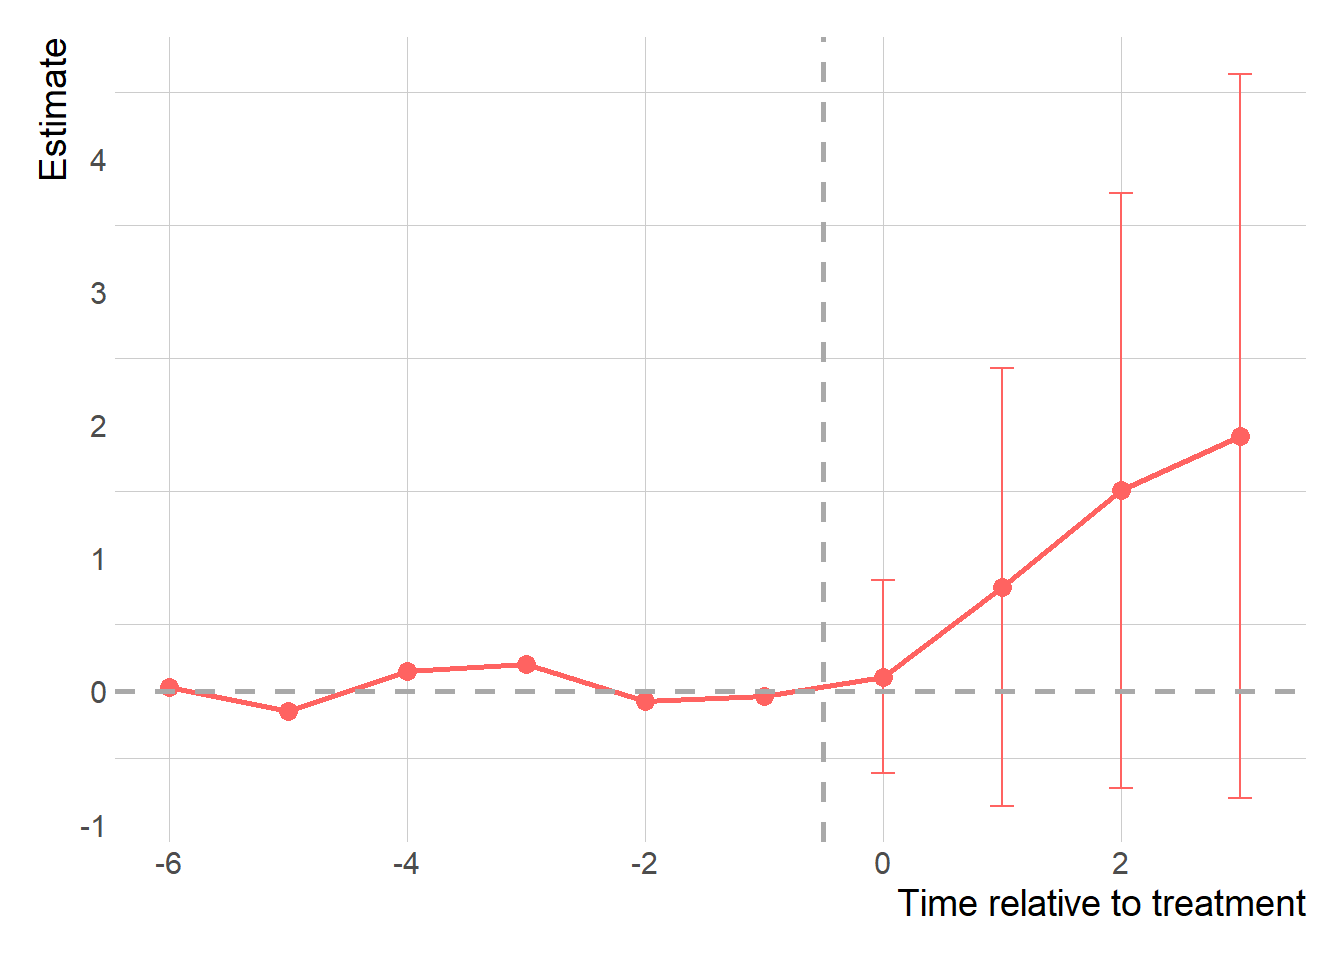
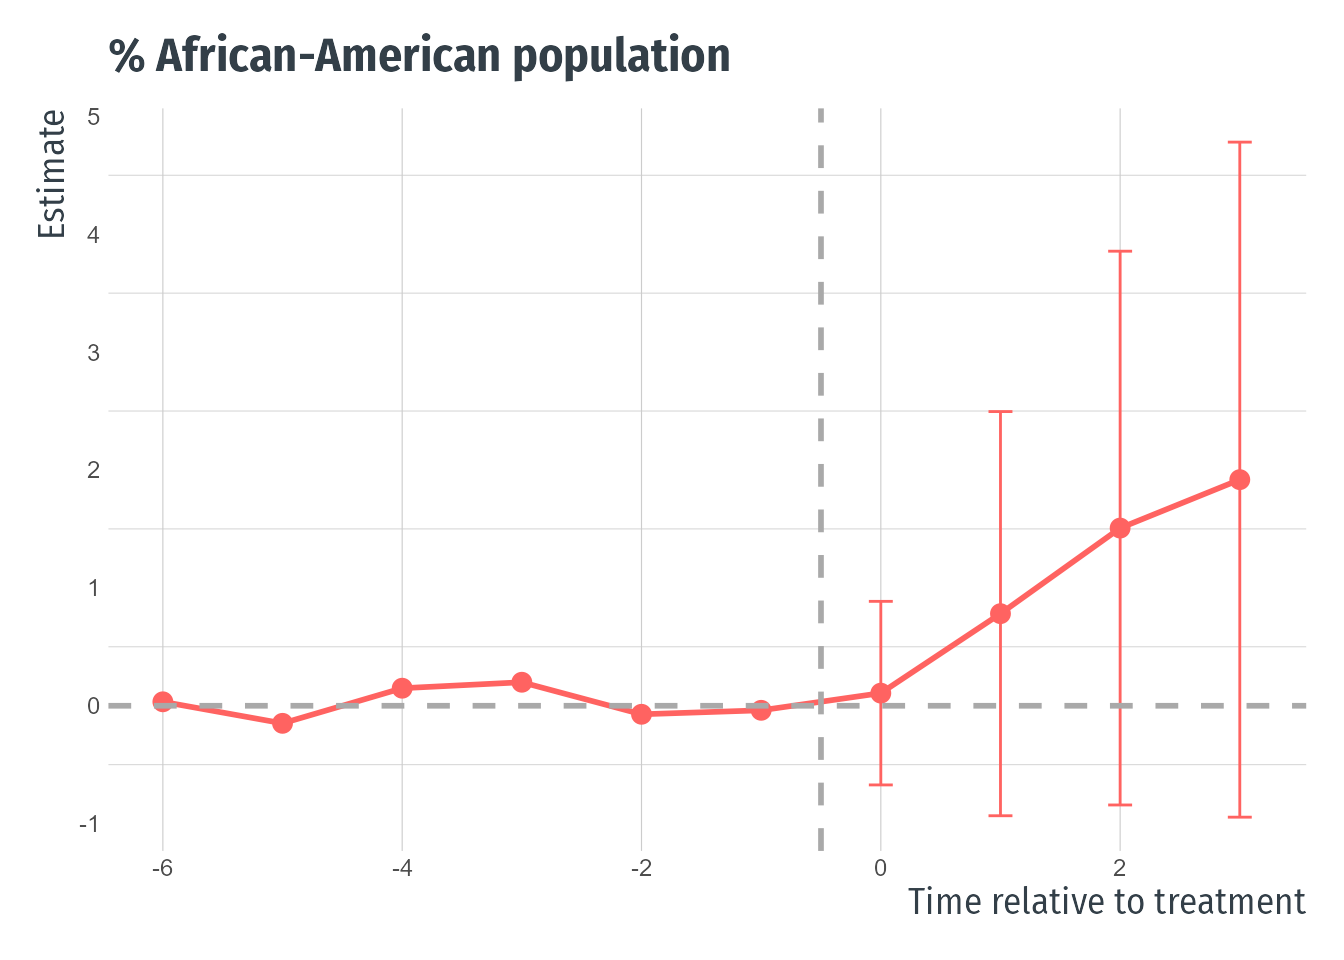
update

diff --git a/content/presentations/AttendanceZones/AEFP_20230324/mbennett_az.html b/content/presentations/AttendanceZones/AEFP_20230324/mbennett_az.html
@@ -46,10 +46,12 @@ class: inverse, center, middle
 
 --
 &lt;br&gt;
+&lt;br&gt;
 
 - Neighborhoods have important effects on **.darkorange[long-term outcomes]** .small[(Chetty et al. 2020)]
 
 --
+&lt;br&gt;
 &lt;br&gt;
 
 - Racial and socioeconomic disparities in the school system also have long-term effects on students .small[(Reardon, 2016; Billings et al., 2014)]
@@ -73,10 +75,12 @@ Changes in attendance zones]
   
 --
 &lt;br&gt;
+&lt;br&gt;
 
 - **.darkorange[New high schools]** in Texas that changed AZ
 
 --
+&lt;br&gt;
 &lt;br&gt;
 
 - **.darkorange[Outcomes of interest]**:
@@ -132,37 +136,43 @@ Changes in attendance zones]
 - **.darkorange[Common Core Data (CCD) [2005-2019]]**: Administrative data from NCES, including demographic and socioeconomic characteristics of schools.
 
 --
+&lt;br&gt;
 
 - **.darkorange[Texas Educacion Agency (TEA) data [2005-2019]]**: Performance data for schools over time.
 
 --
+&lt;br&gt;
 
 - **.darkorange[Attendance zones maps [2009-2017]]**: Geographic data for school boundaries over time from SABS, SABINS, and Maponics.
 
 --
+&lt;br&gt;
 
 - **.darkorange[Census and American Community Survey (ACS) data [2010-2019]]**: Demographic information at the census tract level
 
 --
+&lt;br&gt;
 
 - **.darkorange[Housing Prices data [2005-2019]]**: Information about housing prices over time from CoreLogic and Zillow *(coming soon)*.
 
 ---
 # Identification Strategy: An Augmented Synthetic Control Method
 
-- Use a **.darkorange[weigthed average}** of similar districts/schools/AZ/neighborhoods to create a comparison group for affected areas.
+- Use a **.darkorange[weighted average]** of similar districts/schools/AZ/neighborhoods to create a comparison group for affected areas.
+
+--
 
 - Under **.darkorange[Augmented Synthetic Control Method]** (ASCM) (Ben-Michael et al., 2020) there is a correction for poor fit:
 
 `$$\hat{Y}^{aug}_{1T}(0) = \sum_{W_i=0}\gamma_iY_{iT}+\color{#820a94}{(\hat{m}_{iT}(\mathbf{X_i})-\sum_{W_i=0}\gamma_i\hat{m}_{iT}(\mathbf{X_i}))}$$`
-
-  - `\(m_{iT}\)`: Estimator for `\(Y_{iT}(0)\)`
-  - Extrapolation for ``bias correction''.
-  - If ridge regression is used `\(\rightarrow\)` penalization for extrapolation
+.small[
+- `\(m_{iT}\)`: Estimator for `\(Y_{iT}(0)\)`
+- Extrapolation for "bias correction".
+- If ridge regression is used `\(\rightarrow\)` penalization for extrapolation.]
 
 --
 
-- Proposal of sensitivity analysis to hidden bias:
+- Proposal of **.darkorange[sensitivity analysis to hidden bias]**:
 
   - *How much should an unobserved confounder affect the probability of treatment (i.e. new school opening there vs in a control area) to explain away the results we find?*
 
@@ -174,17 +184,21 @@ Changes in attendance zones]
 - ASCM for different characteristics, adjusting for other baseline covariates (e.g. number of schools, enrollment, %FRPL, % race/ethnicity)
 
 .center[
-![:scale 50%](https://raw.githubusercontent.com/maibennett/presentations/main/content/presentations/AttendanceZones/AEFP_20230324/images/map0_districts.png)]
+![:scale 40%](https://raw.githubusercontent.com/maibennett/presentations/main/content/presentations/AttendanceZones/AEFP_20230324/images/map0_districts.png)]
 
 ---
 # Districts with new schools increase gap in Math
 
-[INSERT PLOT]
+&lt;br&gt;
+.center[
+![:scale 85%](https://raw.githubusercontent.com/maibennett/presentations/main/content/presentations/AttendanceZones/AEFP_20230324/images/districts_gap_math.png)]
 
 ---
 # ... no significant change in Reading
 
-[INSERT PLOT]
+&lt;br&gt;
+.center[
+![:scale 85%](https://raw.githubusercontent.com/maibennett/presentations/main/content/presentations/AttendanceZones/AEFP_20230324/images/districts_gap_read.png)]
 
 ---
 # What happens within districts?
@@ -192,6 +206,10 @@ Changes in attendance zones]
 - Identify **.darkorange[6 new high schools]** between 2012-2016 that change AZ.
 
 - Compare attendance zones *within districts* to create a counterfactual.
+
+--
+&lt;br&gt;
+&lt;br&gt;
 
 - **.darkorange[Important caveat]**:
 
@@ -202,35 +220,86 @@ Changes in attendance zones]
 ---
 # Zoned-in Areas: How do neighborhoods change?
 
-- Increase in college educated population
+- No major changes in % white population (left) or % African American population (right)
+
+.pull-left[
+.center[
+![](https://raw.githubusercontent.com/maibennett/presentations/main/content/presentations/AttendanceZones/AEFP_20230324/images/zones_in_white.png)]
+]
+
+.pull-right[
+.center[
+![](https://raw.githubusercontent.com/maibennett/presentations/main/content/presentations/AttendanceZones/AEFP_20230324/images/zones_in_black.png)]
+]
+
+---
+# Zoned-in Areas: How do neighborhoods change?
+
+- Suggestive increase in % of college educated population
+
+.center[
+![:scale 60%](https://raw.githubusercontent.com/maibennett/presentations/main/content/presentations/AttendanceZones/AEFP_20230324/images/zones_in_college.png)]
 
 ---
 # Zoned-out Areas: How are schools affected?
 
-- What happens when a new school takes part of an existing school's students?
+- **.darkorange[Demographics]**: Decreasing trend in white students enrollment (left) vs increasing trend in African American enrollment (right).
 
-- Demographics
-- Performance
+.pull-left[
+.center[
+![](https://raw.githubusercontent.com/maibennett/presentations/main/content/presentations/AttendanceZones/AEFP_20230324/images/zones_out_white_students.png)]
+]
+
+.pull-right[
+.center[
+![](https://raw.githubusercontent.com/maibennett/presentations/main/content/presentations/AttendanceZones/AEFP_20230324/images/zones_out_black_students.png)]
+]
+
+---
+# Zoned-out Areas: How are schools affected?
+
+- **.darkorange[Performance]**: Decreasing trend % of proficiency (sharper for African American students).
+
+.center[
+![:scale 60%](https://raw.githubusercontent.com/maibennett/presentations/main/content/presentations/AttendanceZones/AEFP_20230324/images/zones_out_scores.png)]
 
 ---
 # Zoned-out Areas: What about neighborhoods?
 
+- Increasing trend in % of African-American population (left) and decreasing trend in % college-educated population (right).
+
+.pull-left[
+.center[
+![](https://raw.githubusercontent.com/maibennett/presentations/main/content/presentations/AttendanceZones/AEFP_20230324/images/zones_out_black.png)]
+]
+
+.pull-right[
+.center[
+![](https://raw.githubusercontent.com/maibennett/presentations/main/content/presentations/AttendanceZones/AEFP_20230324/images/zones_out_college.png)]
+]
+
 ---
 # Wrapping up
 
-- Attendance zones have a huge role in shaping neighborhoods and nearby areas.
+- Attendance zones have a huge role in **.darkorange[shaping neighborhoods]** and nearby areas.
 
 --
+&lt;br&gt;
+&lt;br&gt;
 
-- Importance of understanding the effects of new schools.
+- Importance of understanding the effects of **.darkorange[new schools]** and their location and boundaries.
 
 --
+&lt;br&gt;
+&lt;br&gt;
 
 - Effects of housing prices? Long-run outcomes?
 
 --
+&lt;br&gt;
+&lt;br&gt;
 
-- **Next steps**:
+- **.darkorange[Next steps]**:
   
   - Include other states (e.g. CA)
   - Analyze housing prices over time.
